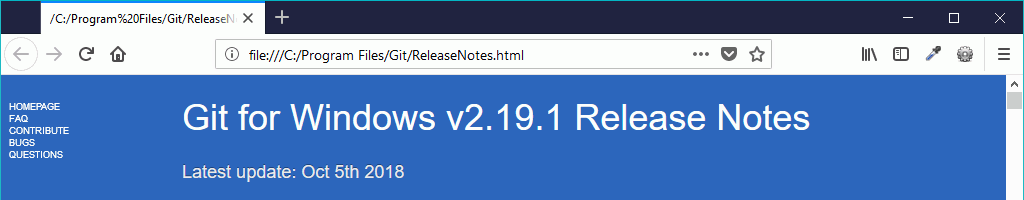
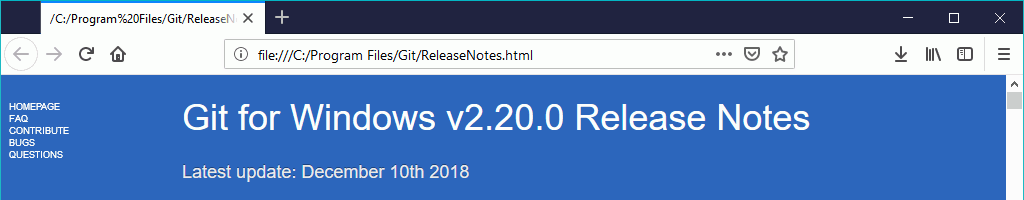
Publicado Git 1.20

diff --git a/lecciones/git.html b/lecciones/git.html
@@ -178,6 +178,8 @@
         <text x="971" y="-15" text-anchor="middle" fill="#F05030" style="font-size: 75%; font-weight: bold">2.18</text>
         <circle cx="986" cy="0" r="5" fill="#F05030" />
         <text x="986" y="25" text-anchor="middle" fill="#F05030" style="font-size: 75%; font-weight: bold">2.19</text>
+        <circle cx="1004" cy="0" r="5" fill="#F05030" />
+        <text x="1004" y="-15" text-anchor="middle" fill="#F05030" style="font-size: 75%; font-weight: bold">2.20</text>
       </svg>
     </p>
 
@@ -234,7 +236,8 @@
       <a href="https://raw.githubusercontent.com/git/git/master/Documentation/RelNotes/2.16.0.txt">2.16</a> -
       <a href="https://raw.githubusercontent.com/git/git/master/Documentation/RelNotes/2.17.0.txt">2.17</a> -
       <a href="https://raw.githubusercontent.com/git/git/master/Documentation/RelNotes/2.18.0.txt">2.18</a> -
-      <a href="https://raw.githubusercontent.com/git/git/master/Documentation/RelNotes/2.19.0.txt">2.19</a>
+      <a href="https://raw.githubusercontent.com/git/git/master/Documentation/RelNotes/2.19.0.txt">2.19</a> -
+      <a href="https://raw.githubusercontent.com/git/git/master/Documentation/RelNotes/2.20.0.txt">2.20</a>
     </p>
 
     <p>GitHub Blog Highlights:
@@ -271,13 +274,14 @@
           <li><a href="https://githubuniverse.com/2015/">GitHub Universe 2015</a>: <a href="https://www.youtube.com/watch?v=6-FqUO_RzUo">opening keynote 2015</a> y <a href="https://www.youtube.com/results?search_query=%22GitHub+Universe+2015%22">vídeos</a></li>
           <li><a href="https://githubuniverse.com/2016/">GitHub Universe 2016</a>: <a href="https://githubuniverse.com/2016/program/sessions/">Vídeos de las conferencias</a></li>
           <li><a href="https://githubuniverse.com/2017/">GitHub Universe 2017</a>: <a href="https://www.youtube.com/playlist?list=PL0lo9MOBetEExZKSq577HsKC-68iOtHU9">Featured sessions videos</a> y <a href="https://www.youtube.com/results?search_query=%22GitHub+Universe+2017%22">vídeos</a></li>
+          <li><a href="https://githubuniverse.com/2018/">GitHub Universe 2018</a>: <a href="https://www.youtube.com/playlist?list=PL0lo9MOBetEEt1JGDB2Yv8fvcsUekoQNw">Featured sessions videos</a> y <a href="https://www.youtube.com/results?search_query=github+universe+2018+playlist">vídeos</a></li>
         </ul>
       </li>
     </ul>
   </section>
 
   <footer>
-    <p class="ultmod">Última modificación de esta página: 9 de octubre de 2018</p>
+    <p class="ultmod">Última modificación de esta página: 11 de diciembre de 2018</p>
 
     <p class="licencia">
       <a rel="license" href="https://creativecommons.org/licenses/by-sa/4.0/deed.es_ES"><img src="../varios/iconos/icono-cc-by-sa.svg" alt="Licencia Creative Commons" title="Licencia Creative Commons BY-SA" width="120" height="42" /></a><br />

diff --git a/lecciones/git-instalacion.html b/lecciones/git-instalacion.html
@@ -38,7 +38,7 @@
 
     <p>Git for windows se puede descargar desde su <a href="https://gitforwindows.org/">página principal</a> o del <a href="https://github.com/git-for-windows/git/releases">repositorio en GitHub</a>.</p>
 
-    <p>Actualmente (octubre de 2018), la última versión publicada de Git for windows es la versión 2.19.1, publicada el 5 de octubre de 2018.</p>
+    <p>Actualmente (diciembre de 2018), la última versión publicada de Git for windows es la versión 2.20, publicada el 10 de diciembre de 2018.</p>
 
     <p>En <a href="http://www.cdlibre.org/">cdlibre.org</a> hay una sección dedicada a <a href="http://www.cdlibre.org/consultar/catalogo/Programacion_Sistemas-de-control-de-versiones.html">Sistemas de Control de Versiones</a>, con información detallada sobre la última versión publicada para Windows.</p>
   </section>
@@ -54,7 +54,7 @@
       <li>que utilice Visual Studio Code como editor.</li>
     </ul>
 
-    <p>Estos son los pasos del proceso de instalación:</p>
+    <p>Estos son los pasos del proceso de instalación de la versión 2.19, similares a los de otras versiones:</p>
 
     <ol>
       <li>La primera pantalla muestra la licencia de Git (<a href="https://opensource.org/licenses/GPL-2.0">GPL 2</a>, como el kernel Linux):
@@ -117,7 +117,7 @@
           <img src="../img/git/git-instalacion-12.png" alt="Git - Instalación en Windows" width="499" height="387" />
         </p>
       </li>
-      <li>La siguiente pantalla permite elegir algunas características experimentales:
+      <li>La siguiente pantalla permite elegir algunas características experimentales (en algunas versiones no aparece esta pantalla):
         <p class="captura">
           <img src="../img/git/git-instalacion-13.png" alt="Git - Instalación en Windows" width="499" height="387" />
         </p>
@@ -141,7 +141,7 @@
   </section>
 
   <footer>
-    <p class="ultmod">Última modificación de esta página: 9 de octubre de 2018</p>
+    <p class="ultmod">Última modificación de esta página: 11 de diciembre de 2018</p>
 
     <p class="licencia">
       <a rel="license" href="https://creativecommons.org/licenses/by-sa/4.0/deed.es_ES"><img src="../varios/iconos/icono-cc-by-sa.svg" alt="Licencia Creative Commons" title="Licencia Creative Commons BY-SA" width="120" height="42" /></a><br />

diff --git a/index.html b/index.html
@@ -162,7 +162,7 @@
   </div>
 
   <footer>
-    <p class="ultmod">Última modificación de alguna página de este curso: 21 de noviembre de 2018</p>
+    <p class="ultmod">Última modificación de alguna página de este curso: 11 de diciembre de 2018</p>
 
     <p class="licencia">
       <a rel="license" href="https://creativecommons.org/licenses/by-sa/4.0/deed.es_ES"><img src="varios/iconos/icono-cc-by-sa.svg" alt="Licencia Creative Commons" title="Licencia Creative Commons BY-SA" width="120" height="42" /></a><br />
